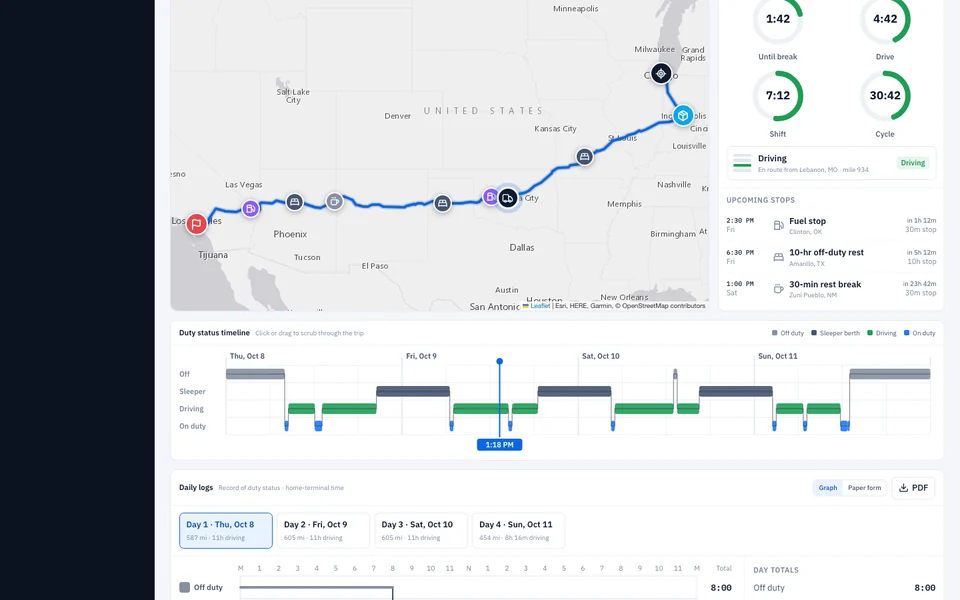
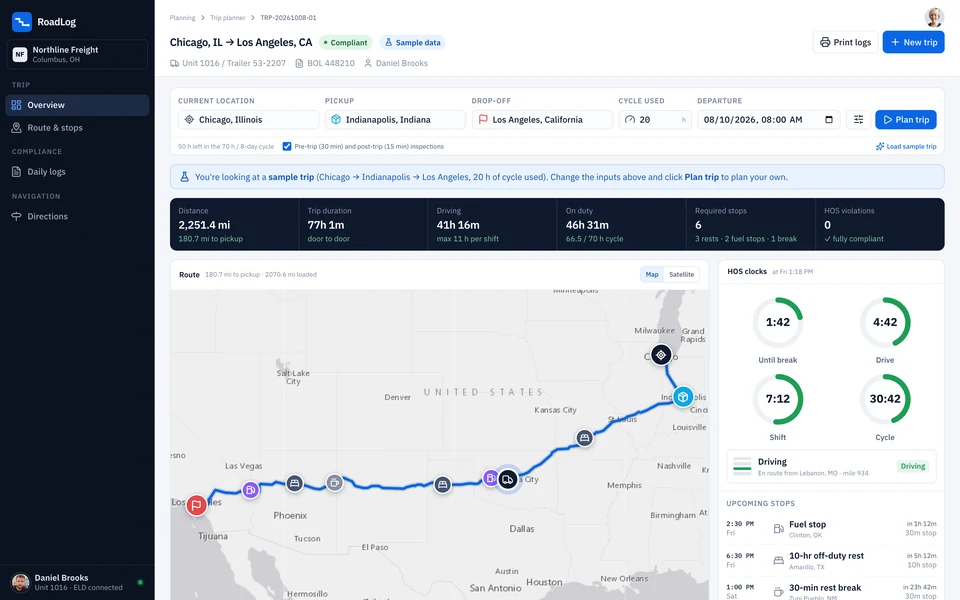
feat: lead with client work, feature Foodio, show client details inline
Replace the RoadLog thumbnail with a full screenshot of the live app.

diff --git a/README.md b/README.md
@@ -11,12 +11,55 @@
 <a href="mailto:abuubkar.dev@gmail.com"><b>abuubkar.dev@gmail.com</b></a>
 </p>
 
+## 🏢 Client work · Arbisoft, 2021–2026
+
+<table>
+<tr>
+<td width="33%" valign="top">
+<a href="https://fixalert.io"><img src="assets/projects/fixalert.webp" width="260" alt="FixAlert"></a>
+<h3>FixAlert</h3>
+<sub>Maintenance platform · <a href="https://fixalert.io">fixalert.io</a></sub>
+<ul>
+<li>Removed N+1 queries on core APIs</li>
+<li>Celery pipelines for email and bulk PDFs</li>
+<li>Stripe payments and reporting metrics</li>
+</ul>
+<code>React</code> <code>Django</code> <code>Celery</code> <code>Stripe</code>
+</td>
+<td width="33%" valign="top">
+<a href="https://landit.com"><img src="assets/projects/landit.webp" width="260" alt="Landit"></a>
+<h3>Landit</h3>
+<sub>Career pathing · <a href="https://landit.com">landit.com</a></sub>
+<ul>
+<li>Led MUI v4 → v5 and React Router migrations</li>
+<li>Storybook components and frontend tests</li>
+<li>Looker BI views and SendGrid templates</li>
+</ul>
+<code>React</code> <code>Next.js</code> <code>Storybook</code> <code>Cypress</code>
+</td>
+<td width="33%" valign="top">
+<a href="https://www.askimam.org/"><img src="assets/projects/askimam.webp" width="260" alt="AskImam"></a>
+<h3>AskImam</h3>
+<sub>Full-stack · <a href="https://www.askimam.org/">askimam.org</a></sub>
+<ul>
+<li>Led the Django 2.x → 5.1 migration</li>
+<li>Admin dashboard and Google Analytics</li>
+<li>Hardened authentication</li>
+</ul>
+<code>React</code> <code>Django</code> <code>Redux</code> <code>Vite</code>
+</td>
+</tr>
+</table>
+
+**Also:** **Rumi** (React + Django): frontend refactor to cut re-renders, Vitest suites, GitLab CI ·
+**Taiga** (AngularJS + Django): built the Requestor and Feedback modules end to end
+
 ## 🛍 Featured products
 
 <table>
 <tr>
 <td width="50%" valign="top">
-<a href="https://abuubkar.github.io/roadlog/"><img src="assets/projects/roadlog.webp" width="400" alt="RoadLog: route map, HOS timeline and daily logs"></a>
+<a href="https://abuubkar.github.io/roadlog/"><img src="assets/projects/roadlog.webp" width="400" alt="RoadLog: trip summary, route map and HOS clocks"></a>
 <h3>RoadLog</h3>
 Trip planner for truck drivers: route map, every legally required stop, and auto-drawn ELD daily log sheets.<br><br>
 <code>Django</code> <code>React</code> <code>TypeScript</code> <code>CI/CD</code><br><br>
@@ -44,11 +87,11 @@ Real-time chat over WebSockets, with JWT auth, user profiles and avatar uploads.
 <a href="https://convo-lemon-three.vercel.app"><b>▶ Live</b></a> · <a href="https://github.com/Abuubkar/convo-web">Web</a> · <a href="https://github.com/Abuubkar/convo-backend">API</a>
 </td>
 <td width="50%" valign="top">
-<a href="https://abuubkar.github.io/decision-log/"><img src="assets/projects/decision-log.webp" width="400" alt="Decision Log: list of team decisions"></a>
-<h3>Decision Log</h3>
-Records the decisions a team has already made: what was decided, why, when, and whether it still holds.<br><br>
-<code>TypeScript</code> <code>Vite</code><br><br>
-<a href="https://abuubkar.github.io/decision-log/"><b>▶ Live</b></a> · <a href="https://github.com/Abuubkar/decision-log">Code</a>
+<a href="https://github.com/Abuubkar/foodio-mobile"><img src="assets/projects/foodio.webp" width="400" alt="Foodio: home, restaurant and checkout screens"></a>
+<h3>Foodio</h3>
+Mobile app for food delivery and food reviews, backed by a restaurant-owned delivery API.<br><br>
+<code>React Native</code> <code>NestJS</code> <code>Drizzle</code> <code>PostGIS</code><br><br>
+<a href="https://github.com/Abuubkar/foodio-mobile"><b>Code</b></a>
 </td>
 </tr>
 </table>
@@ -57,75 +100,13 @@ Records the decisions a team has already made: what was decided, why, when, and 
 
 | | Product | Built with | |
 |:-:|:--|:--|:--|
-| <a href="https://github.com/Abuubkar/foodio-mobile"><img src="assets/projects/foodio.webp" width="160" alt="Foodio app screens"></a> | **Foodio**<br>Mobile app for food delivery and food reviews | React Native · NestJS · PostGIS | [Code](https://github.com/Abuubkar/foodio-mobile) |
+| <a href="https://abuubkar.github.io/decision-log/"><img src="assets/projects/decision-log.webp" width="160" alt="Decision Log"></a> | **Decision Log**<br>What a team decided, why, and whether it still holds | TypeScript · Vite | [Live](https://abuubkar.github.io/decision-log/) · [Code](https://github.com/Abuubkar/decision-log) |
 | <a href="https://execil.net/"><img src="assets/projects/execil.webp" width="160" alt="Execil landing page"></a> | **Execil**<br>Medical billing / RCM marketing site | TypeScript · Vite | [Live](https://execil.net/) · [Code](https://github.com/Abuubkar/execil) |
 
 **Tools & experiments:**
 [resume-toolkit](https://github.com/Abuubkar/resume-toolkit) (job-specific, provenance-checked resumes) ·
 [ai-github-toolkit](https://github.com/Abuubkar/ai-github-toolkit) (AI PR review as a GitHub Action) ·
 [Prototypes](https://abuubkar.github.io/prototypes/) (web products and sales demos)
-
-## 🏢 Client work · Arbisoft, 2021–2026
-
-<details>
-<summary><b>FixAlert</b> · maintenance-management platform · <a href="https://fixalert.io">fixalert.io</a></summary>
-<br>
-<img src="assets/projects/fixalert.webp" width="360" align="right" alt="FixAlert">
-
-- Sped up core APIs by removing N+1 queries and redundant lookups
-- Celery workflows for email notifications and bulk PDF generation
-- Reporting metrics, Stripe payments and a UI rework
-
-`React` `Django` `Celery` `Stripe` `PostgreSQL`
-<br clear="right">
-</details>
-
-<details>
-<summary><b>Landit</b> · career-pathing platform · <a href="https://landit.com">landit.com</a></summary>
-<br>
-<img src="assets/projects/landit.webp" width="360" align="right" alt="Landit">
-
-- Led Material UI v4 → v5 and React Router v4 → v5 migrations
-- Storybook components and frontend testing in a team of 17
-- Looker BI visualizations and SendGrid email templates
-
-`React` `Next.js` `Storybook` `Cypress` `Looker`
-<br clear="right">
-</details>
-
-<details>
-<summary><b>AskImam</b> · full-stack · <a href="https://www.askimam.org/">askimam.org</a></summary>
-<br>
-<img src="assets/projects/askimam.webp" width="360" align="right" alt="AskImam">
-
-- Led the Django 2.x → 5.1 migration
-- Admin dashboard improvements and Google Analytics
-- Hardened authentication against common vulnerabilities
-
-`React` `Django` `Redux` `Vite`
-<br clear="right">
-</details>
-
-<details>
-<summary><b>Rumi</b> · full-stack · React + Django</summary>
-<br>
-
-- Led a frontend architecture refactor to cut re-renders
-- Vitest suites and ESLint/Prettier pre-commit gates
-- Contributed to the GitLab CI build, test and deploy stages
-
-`React` `Vitest` `Redux Toolkit` `Django`
-</details>
-
-<details>
-<summary><b>Taiga</b> · open-source project-management fork · AngularJS + Django</summary>
-<br>
-
-- Built the Requestor and Feedback modules end to end
-- New Django models and REST endpoints with role-based access
-
-`AngularJS` `CoffeeScript` `Django`
-</details>
 
 ## 🧰 Toolbox
 
